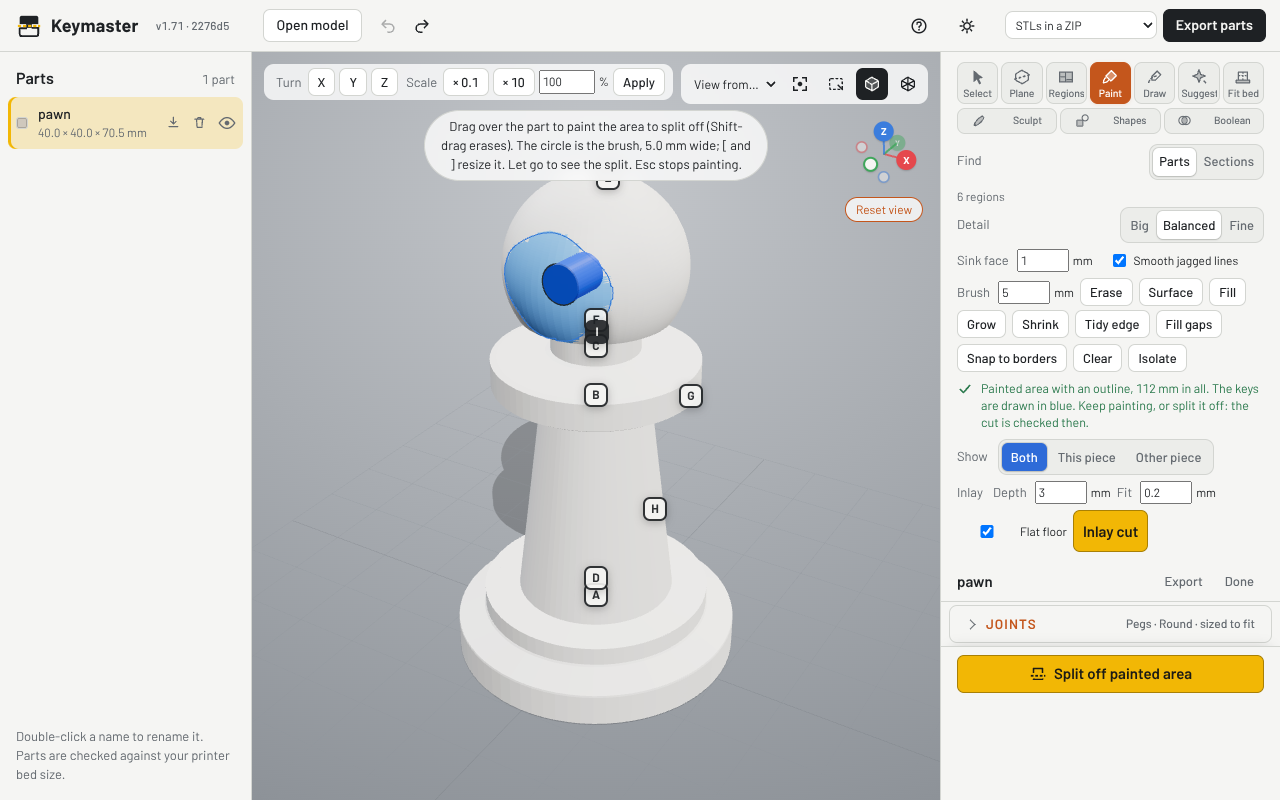
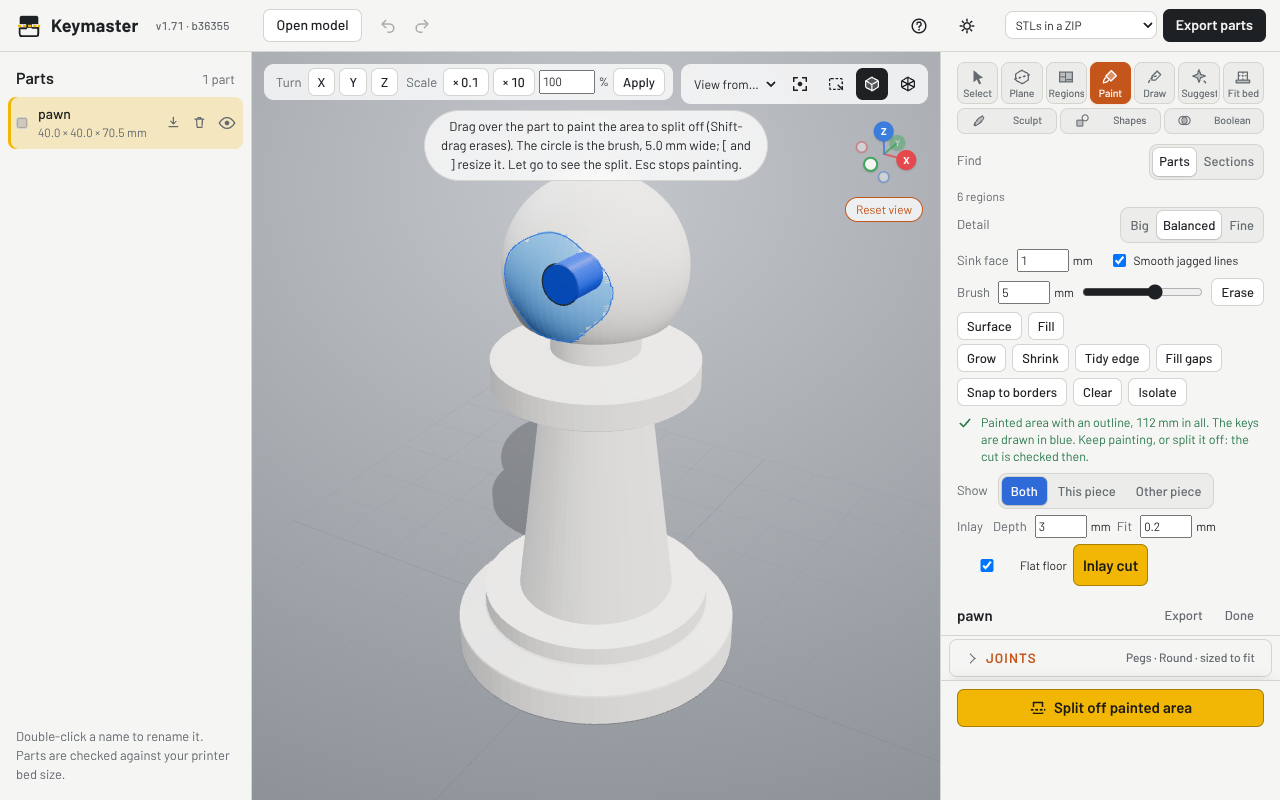
Brush size sliders for Paint and Sculpt (1.71)
Claude-Session: https://claude.ai/code/session_01AkZzWHpAyvH3fbyxphXaEn

diff --git a/index.html b/index.html
@@ -327,7 +327,8 @@ input[type=range] { width: 100%; accent-color: var(--ink); }
 .status.warn { color: var(--warn); }
 .btn-row { display: flex; gap: 6px; flex-wrap: wrap; margin-top: 4px; align-items: center; }
 .inline-num { display: inline-flex; align-items: center; gap: 4px; font-size: 12px; }
-.inline-check { display: inline-flex; align-items: center; gap: 5px; font-size: 12px; margin-left: 10px; color: var(--ink-2, inherit); }
+.brush-slider { flex: 1 1 90px; min-width: 80px; max-width: 160px; accent-color: var(--accent); }
+    .inline-check { display: inline-flex; align-items: center; gap: 5px; font-size: 12px; margin-left: 10px; color: var(--ink-2, inherit); }
 .inline-num input { width: 52px; }
 .paint-tools { margin-top: 4px; }
 .move-line { margin-top: 6px; }
@@ -559,7 +560,7 @@ select.sel { padding: 6px 8px; border: 1px solid var(--line); border-radius: 7px
         <path d="M2 14h24" stroke="#F2B705" stroke-width="2.4" stroke-dasharray="3.5 2"/>
       </svg>
       <span>Keymaster</span>
-      <span class="version" id="appVersion" title="Keymaster version 1.71, build 31208a. After an update, refresh the page and check this changes.">v1.71 · 31208a</span>
+      <span class="version" id="appVersion" title="Keymaster version 1.71, build b36355. After an update, refresh the page and check this changes.">v1.71 · b36355</span>
     </div>
     <div class="bar-mid">
       <button class="btn" id="openBtn" title="Open (Ctrl+O)">Open model</button>
@@ -663,7 +664,7 @@ select.sel { padding: 6px 8px; border: 1px solid var(--line); border-radius: 7px
     <div class="rp-row rp-fold" hidden><label class="slider" title="Where the surface folds inward more sharply than this, it is split into regions, like ZBrush polygroups"><span class="lbl">Split at folds over</span><input type="range" id="regionsAngle" min="5" max="45" step="5" value="15" aria-label="Split the surface where it folds inward more sharply than this"><output id="regionsAngleOut">15°</output></label></div>
     <div class="btn-row"><label class="inline-num" title="Push the cut face this far into the other piece, with a wall down from the line, so the piece keeps its thickness to the edge. 0 turns it off."><span class="lbl">Sink face</span><input type="number" id="sinkDepth" min="0" step="0.2" value="1" aria-label="Sink the cut face into the other piece by this much"><span class="unit">mm</span></label><label class="inline-check" title="Ease the cut line along the surface where it zigzags from triangle to triangle, so the cut edge comes out smooth. The pieces still meet exactly."><input type="checkbox" id="smoothCut" checked> Smooth jagged lines</label></div>
     <div id="paintTools" class="paint-tools" hidden>
-      <div class="btn-row"><label class="inline-num" title="Brush size"><span class="lbl">Brush</span><input type="number" id="brushSize" min="0.2" step="0.5" value="3" aria-label="Brush size in millimetres"><span class="unit">mm</span></label><button class="btn small" id="eraseBtn" aria-pressed="false" title="Erase paint instead of adding it (or hold Shift while painting)">Erase</button><button class="btn small" id="brushModeBtn" data-act="paint-mode" aria-pressed="false" title="Surface follows connected faces and stops at the edge of a layer; Sphere paints every face within reach, layers behind included">Surface</button><button class="btn small" id="fillBtn" data-act="paint-fill" aria-pressed="false" title="A click paints the whole surface region under the brush">Fill</button></div>
+      <div class="btn-row"><label class="inline-num" title="Brush size"><span class="lbl">Brush</span><input type="number" id="brushSize" min="0.2" step="0.5" value="3" aria-label="Brush size in millimetres"><span class="unit">mm</span></label><input type="range" id="brushSlider" class="brush-slider" min="0" max="100" step="1" value="40" aria-label="Brush size" title="Brush size: drag to change ([ and ] too)"><button class="btn small" id="eraseBtn" aria-pressed="false" title="Erase paint instead of adding it (or hold Shift while painting)">Erase</button><button class="btn small" id="brushModeBtn" data-act="paint-mode" aria-pressed="false" title="Surface follows connected faces and stops at the edge of a layer; Sphere paints every face within reach, layers behind included">Surface</button><button class="btn small" id="fillBtn" data-act="paint-fill" aria-pressed="false" title="A click paints the whole surface region under the brush">Fill</button></div>
       <div class="btn-row"><button class="btn small" data-act="paint-grow" title="Grow the painted area outward by one brush width">Grow</button><button class="btn small" data-act="paint-shrink" title="Shrink the painted area by one brush width">Shrink</button><button class="btn small" data-act="paint-tidy" title="Smooth the painted area's edge: drop thin tongues and fill notches">Tidy edge</button><button class="btn small" data-act="paint-fill-gaps" title="Fill the gaps in the paint: channels narrower than the brush between painted pieces, and every patch the paint surrounds">Fill gaps</button><button class="btn small" data-act="paint-snap" title="Snap the paint to the surface regions: a region at least half painted is painted whole, the rest cleared">Snap to borders</button><button class="btn small" data-act="paint-clear" title="Remove all paint">Clear</button><button class="btn small" id="isolateBtn" data-act="paint-isolate" aria-pressed="false" title="Hide everything but the painted area, so the rest of the model stays out of the way of the brush and clicks">Isolate</button></div>
     </div>
     <div id="cutLineInfo" class="cut-line-info"></div>
@@ -9736,6 +9737,12 @@ ${jointRows.length ? `<h2 style="font-size:17px">Joints</h2><table><thead><tr><t
   const brushBall = new THREE.Mesh(new THREE.SphereGeometry(1, 32, 20), new THREE.MeshBasicMaterial({ color: 0x2f6fe0, transparent: true, opacity: 0.18, depthWrite: false }));
   brushBall.renderOrder = 10; brushBall.visible = false; brushRing.add(brushBall);
   const brushSize = () => (state.tool === 'sculpt' ? state.sculpt.size : state.paint.size);
+  // The brush size slider runs on a log scale from 0.2 mm to two fifths of the part's size, so small and big
+  // brushes are both a short drag away
+  function sliderMax() { const p = selectedPart(); return Math.max(5, p ? K.diag(p.bbox) * 0.4 : 50); }
+  function sliderOf(size) { return Math.round(100 * Math.log(Math.max(0.2, size) / 0.2) / Math.log(sliderMax() / 0.2)); }
+  function sizeOfSlider(v) { return Math.round(0.2 * Math.pow(sliderMax() / 0.2, v / 100) * 10) / 10; }
+  function syncBrushSlider() { for (const [id, size] of [['#brushSlider', state.paint.size], ['#sculptSlider', state.sculpt.size]]) { const el = $(id); if (el) el.value = Math.max(0, Math.min(100, sliderOf(size))); } }
   function moveBrushRing(hit) {
     if (!hit || !(state.paint.on || state.tool === 'sculpt')) { if (brushRing.visible) { brushRing.visible = false; markDirty(); } return; }
     brushRing.position.copy(hit.point);
@@ -9849,7 +9856,7 @@ ${jointRows.length ? `<h2 style="font-size:17px">Joints</h2><table><thead><tr><t
     if (state.tool === 'sculpt') { setSculptSize(size); return; }
     state.paint.size = Math.max(0.2, Math.round(size * 10) / 10); state.paint.sized = true;
     const inp = $('#brushSize'); if (inp) inp.value = state.paint.size;
-    brushRing.scale.set(state.paint.size, state.paint.size, state.paint.size); updateHint(); markDirty();
+    brushRing.scale.set(state.paint.size, state.paint.size, state.paint.size); syncBrushSlider(); updateHint(); markDirty();
   }
   /* ---------------- sculpting ----------------
      modelsplitter's Sculpt tool: Smooth, Inflate and Flatten brushes dragged over the chosen part. A stroke works
@@ -9865,14 +9872,14 @@ ${jointRows.length ? `<h2 style="font-size:17px">Joints</h2><table><thead><tr><t
   function setSculptSize(size) {
     state.sculpt.size = Math.max(0.2, Math.round(size * 10) / 10); state.sculpt.sized = true;
     const inp = $('#sculptSize'); if (inp) inp.value = state.sculpt.size;
-    brushRing.scale.set(state.sculpt.size, state.sculpt.size, state.sculpt.size); updateHint(); markDirty();
+    brushRing.scale.set(state.sculpt.size, state.sculpt.size, state.sculpt.size); syncBrushSlider(); updateHint(); markDirty();
   }
   function sculptPanelHTML() {
     const p = selectedPart(), s = state.sculpt, mask = p && s.mask && s.mask.partId === p.id ? s.mask : null;
     const note = { smooth: 'Each vertex eases towards its neighbours: bumps and noise melt away.', inflate: 'The surface puffs out along itself. Hold Shift to push it in.', flatten: 'The surface is pressed towards a flat plane through the brush.' }[s.mode];
     return `<div class="sculpt-panel">
       <div class="inline"><span class="lbl">Brush</span>${seg('sculpt-mode', s.mode, [['smooth', 'Smooth'], ['inflate', 'Inflate'], ['flatten', 'Flatten']])}</div>
-      <div class="row2"><label class="inline-num" title="Brush size ([ and ] change it)"><span class="lbl">Size</span><input type="number" id="sculptSize" min="0.2" step="0.5" value="${s.size}" aria-label="Brush size in millimetres"><span class="unit">mm</span></label>
+      <div class="row2"><label class="inline-num" title="Brush size ([ and ] change it)"><span class="lbl">Size</span><input type="number" id="sculptSize" min="0.2" step="0.5" value="${s.size}" aria-label="Brush size in millimetres"><span class="unit">mm</span></label><input type="range" id="sculptSlider" class="brush-slider" min="0" max="100" step="1" value="${sliderOf(s.size)}" aria-label="Brush size" title="Brush size: drag to change ([ and ] too)">
         <label class="slider" title="How far each pass moves the surface"><span class="lbl">Strength</span><input type="range" id="sculptStrength" min="5" max="100" step="5" value="${Math.round(s.strength * 100)}" aria-label="Brush strength"><output id="sculptStrengthOut">${Math.round(s.strength * 100)}%</output></label></div>
       <p class="muted small">${note}</p>
       ${mask ? `<label class="check mask" title="The area painted with the Paint tool"><input type="checkbox" data-act-toggle="sculpt-mask" ${s.useMask ? 'checked' : ''}> Keep to the painted area (${fmtInt(mask.count)} faces)</label>` : ''}
@@ -10760,6 +10767,7 @@ ${jointRows.length ? `<h2 style="font-size:17px">Joints</h2><table><thead><tr><t
       setKeyOwn(f, f === 'turn' ? normTurn(v) : v);
       return;
     }
+    if (t.id === 'sculptSlider') { setSculptSize(sizeOfSlider(+t.value)); return; }
     if (t.id === 'sculptSize') { const v = parseFloat(t.value); if (isFinite(v)) setSculptSize(v); else renderInspector(); return; }
     if (t.id === 'sculptStrength') { state.sculpt.strength = Math.max(0.05, Math.min(1, parseFloat(t.value) / 100)); const o = $('#sculptStrengthOut'); if (o) o.textContent = `${Math.round(state.sculpt.strength * 100)}%`; return; }
     if (t.dataset.actToggle === 'sculpt-mask') { state.sculpt.useMask = t.checked; updateHint(); return; }
@@ -10849,6 +10857,7 @@ ${jointRows.length ? `<h2 style="font-size:17px">Joints</h2><table><thead><tr><t
   for (const el of [ins, planeBar]) {
     el.addEventListener('click', onPanelClick);
     el.addEventListener('change', onPanelChange);
+    el.addEventListener('input', (e) => { if (e.target.id === 'sculptSlider') setSculptSize(sizeOfSlider(+e.target.value)); }); // the slider sizes the brush while it is dragged
     el.addEventListener('input', onPanelInput);
   }
 
@@ -11646,7 +11655,8 @@ ${jointRows.length ? `<h2 style="font-size:17px">Joints</h2><table><thead><tr><t
   $('#seamSmooth').addEventListener('change', (e) => { smoothSeam(+e.target.value); });
   $('#seamSnap').addEventListener('change', (e) => { if (state.edit) state.edit.snap = e.target.checked; });
   $('#explode').addEventListener('input', (e) => { state.explode = parseFloat(e.target.value); $('#explodeOut').textContent = `${Math.round(state.explode * 100)}%`; applyExplode(); });
-  $('#brushSize').addEventListener('change', (e) => { state.paint.size = Math.max(0.2, +e.target.value || 3); e.target.value = state.paint.size; state.paint.sized = true; brushRing.scale.set(state.paint.size, state.paint.size, state.paint.size); markDirty(); });
+  $('#brushSize').addEventListener('change', (e) => { state.paint.size = Math.max(0.2, +e.target.value || 3); e.target.value = state.paint.size; state.paint.sized = true; brushRing.scale.set(state.paint.size, state.paint.size, state.paint.size); syncBrushSlider(); markDirty(); });
+  $('#brushSlider').addEventListener('input', (e) => { const tool = state.tool; if (tool === 'sculpt') return; setBrushSize(sizeOfSlider(+e.target.value)); });
   function applyRegions() {
     const on = state.regions.on;
     let count = 0;

diff --git a/src/app.js b/src/app.js
@@ -2460,6 +2460,12 @@
   const brushBall = new THREE.Mesh(new THREE.SphereGeometry(1, 32, 20), new THREE.MeshBasicMaterial({ color: 0x2f6fe0, transparent: true, opacity: 0.18, depthWrite: false }));
   brushBall.renderOrder = 10; brushBall.visible = false; brushRing.add(brushBall);
   const brushSize = () => (state.tool === 'sculpt' ? state.sculpt.size : state.paint.size);
+  // The brush size slider runs on a log scale from 0.2 mm to two fifths of the part's size, so small and big
+  // brushes are both a short drag away
+  function sliderMax() { const p = selectedPart(); return Math.max(5, p ? K.diag(p.bbox) * 0.4 : 50); }
+  function sliderOf(size) { return Math.round(100 * Math.log(Math.max(0.2, size) / 0.2) / Math.log(sliderMax() / 0.2)); }
+  function sizeOfSlider(v) { return Math.round(0.2 * Math.pow(sliderMax() / 0.2, v / 100) * 10) / 10; }
+  function syncBrushSlider() { for (const [id, size] of [['#brushSlider', state.paint.size], ['#sculptSlider', state.sculpt.size]]) { const el = $(id); if (el) el.value = Math.max(0, Math.min(100, sliderOf(size))); } }
   function moveBrushRing(hit) {
     if (!hit || !(state.paint.on || state.tool === 'sculpt')) { if (brushRing.visible) { brushRing.visible = false; markDirty(); } return; }
     brushRing.position.copy(hit.point);
@@ -2573,7 +2579,7 @@
     if (state.tool === 'sculpt') { setSculptSize(size); return; }
     state.paint.size = Math.max(0.2, Math.round(size * 10) / 10); state.paint.sized = true;
     const inp = $('#brushSize'); if (inp) inp.value = state.paint.size;
-    brushRing.scale.set(state.paint.size, state.paint.size, state.paint.size); updateHint(); markDirty();
+    brushRing.scale.set(state.paint.size, state.paint.size, state.paint.size); syncBrushSlider(); updateHint(); markDirty();
   }
   /* ---------------- sculpting ----------------
      modelsplitter's Sculpt tool: Smooth, Inflate and Flatten brushes dragged over the chosen part. A stroke works
@@ -2589,14 +2595,14 @@
   function setSculptSize(size) {
     state.sculpt.size = Math.max(0.2, Math.round(size * 10) / 10); state.sculpt.sized = true;
     const inp = $('#sculptSize'); if (inp) inp.value = state.sculpt.size;
-    brushRing.scale.set(state.sculpt.size, state.sculpt.size, state.sculpt.size); updateHint(); markDirty();
+    brushRing.scale.set(state.sculpt.size, state.sculpt.size, state.sculpt.size); syncBrushSlider(); updateHint(); markDirty();
   }
   function sculptPanelHTML() {
     const p = selectedPart(), s = state.sculpt, mask = p && s.mask && s.mask.partId === p.id ? s.mask : null;
     const note = { smooth: 'Each vertex eases towards its neighbours: bumps and noise melt away.', inflate: 'The surface puffs out along itself. Hold Shift to push it in.', flatten: 'The surface is pressed towards a flat plane through the brush.' }[s.mode];
     return `<div class="sculpt-panel">
       <div class="inline"><span class="lbl">Brush</span>${seg('sculpt-mode', s.mode, [['smooth', 'Smooth'], ['inflate', 'Inflate'], ['flatten', 'Flatten']])}</div>
-      <div class="row2"><label class="inline-num" title="Brush size ([ and ] change it)"><span class="lbl">Size</span><input type="number" id="sculptSize" min="0.2" step="0.5" value="${s.size}" aria-label="Brush size in millimetres"><span class="unit">mm</span></label>
+      <div class="row2"><label class="inline-num" title="Brush size ([ and ] change it)"><span class="lbl">Size</span><input type="number" id="sculptSize" min="0.2" step="0.5" value="${s.size}" aria-label="Brush size in millimetres"><span class="unit">mm</span></label><input type="range" id="sculptSlider" class="brush-slider" min="0" max="100" step="1" value="${sliderOf(s.size)}" aria-label="Brush size" title="Brush size: drag to change ([ and ] too)">
         <label class="slider" title="How far each pass moves the surface"><span class="lbl">Strength</span><input type="range" id="sculptStrength" min="5" max="100" step="5" value="${Math.round(s.strength * 100)}" aria-label="Brush strength"><output id="sculptStrengthOut">${Math.round(s.strength * 100)}%</output></label></div>
       <p class="muted small">${note}</p>
       ${mask ? `<label class="check mask" title="The area painted with the Paint tool"><input type="checkbox" data-act-toggle="sculpt-mask" ${s.useMask ? 'checked' : ''}> Keep to the painted area (${fmtInt(mask.count)} faces)</label>` : ''}
@@ -3484,6 +3490,7 @@
       setKeyOwn(f, f === 'turn' ? normTurn(v) : v);
       return;
     }
+    if (t.id === 'sculptSlider') { setSculptSize(sizeOfSlider(+t.value)); return; }
     if (t.id === 'sculptSize') { const v = parseFloat(t.value); if (isFinite(v)) setSculptSize(v); else renderInspector(); return; }
     if (t.id === 'sculptStrength') { state.sculpt.strength = Math.max(0.05, Math.min(1, parseFloat(t.value) / 100)); const o = $('#sculptStrengthOut'); if (o) o.textContent = `${Math.round(state.sculpt.strength * 100)}%`; return; }
     if (t.dataset.actToggle === 'sculpt-mask') { state.sculpt.useMask = t.checked; updateHint(); return; }
@@ -3573,6 +3580,7 @@
   for (const el of [ins, planeBar]) {
     el.addEventListener('click', onPanelClick);
     el.addEventListener('change', onPanelChange);
+    el.addEventListener('input', (e) => { if (e.target.id === 'sculptSlider') setSculptSize(sizeOfSlider(+e.target.value)); }); // the slider sizes the brush while it is dragged
     el.addEventListener('input', onPanelInput);
   }
 
@@ -4370,7 +4378,8 @@
   $('#seamSmooth').addEventListener('change', (e) => { smoothSeam(+e.target.value); });
   $('#seamSnap').addEventListener('change', (e) => { if (state.edit) state.edit.snap = e.target.checked; });
   $('#explode').addEventListener('input', (e) => { state.explode = parseFloat(e.target.value); $('#explodeOut').textContent = `${Math.round(state.explode * 100)}%`; applyExplode(); });
-  $('#brushSize').addEventListener('change', (e) => { state.paint.size = Math.max(0.2, +e.target.value || 3); e.target.value = state.paint.size; state.paint.sized = true; brushRing.scale.set(state.paint.size, state.paint.size, state.paint.size); markDirty(); });
+  $('#brushSize').addEventListener('change', (e) => { state.paint.size = Math.max(0.2, +e.target.value || 3); e.target.value = state.paint.size; state.paint.sized = true; brushRing.scale.set(state.paint.size, state.paint.size, state.paint.size); syncBrushSlider(); markDirty(); });
+  $('#brushSlider').addEventListener('input', (e) => { const tool = state.tool; if (tool === 'sculpt') return; setBrushSize(sizeOfSlider(+e.target.value)); });
   function applyRegions() {
     const on = state.regions.on;
     let count = 0;

diff --git a/src/template.html b/src/template.html
@@ -327,7 +327,8 @@ input[type=range] { width: 100%; accent-color: var(--ink); }
 .status.warn { color: var(--warn); }
 .btn-row { display: flex; gap: 6px; flex-wrap: wrap; margin-top: 4px; align-items: center; }
 .inline-num { display: inline-flex; align-items: center; gap: 4px; font-size: 12px; }
-.inline-check { display: inline-flex; align-items: center; gap: 5px; font-size: 12px; margin-left: 10px; color: var(--ink-2, inherit); }
+.brush-slider { flex: 1 1 90px; min-width: 80px; max-width: 160px; accent-color: var(--accent); }
+    .inline-check { display: inline-flex; align-items: center; gap: 5px; font-size: 12px; margin-left: 10px; color: var(--ink-2, inherit); }
 .inline-num input { width: 52px; }
 .paint-tools { margin-top: 4px; }
 .move-line { margin-top: 6px; }
@@ -663,7 +664,7 @@ select.sel { padding: 6px 8px; border: 1px solid var(--line); border-radius: 7px
     <div class="rp-row rp-fold" hidden><label class="slider" title="Where the surface folds inward more sharply than this, it is split into regions, like ZBrush polygroups"><span class="lbl">Split at folds over</span><input type="range" id="regionsAngle" min="5" max="45" step="5" value="15" aria-label="Split the surface where it folds inward more sharply than this"><output id="regionsAngleOut">15°</output></label></div>
     <div class="btn-row"><label class="inline-num" title="Push the cut face this far into the other piece, with a wall down from the line, so the piece keeps its thickness to the edge. 0 turns it off."><span class="lbl">Sink face</span><input type="number" id="sinkDepth" min="0" step="0.2" value="1" aria-label="Sink the cut face into the other piece by this much"><span class="unit">mm</span></label><label class="inline-check" title="Ease the cut line along the surface where it zigzags from triangle to triangle, so the cut edge comes out smooth. The pieces still meet exactly."><input type="checkbox" id="smoothCut" checked> Smooth jagged lines</label></div>
     <div id="paintTools" class="paint-tools" hidden>
-      <div class="btn-row"><label class="inline-num" title="Brush size"><span class="lbl">Brush</span><input type="number" id="brushSize" min="0.2" step="0.5" value="3" aria-label="Brush size in millimetres"><span class="unit">mm</span></label><button class="btn small" id="eraseBtn" aria-pressed="false" title="Erase paint instead of adding it (or hold Shift while painting)">Erase</button><button class="btn small" id="brushModeBtn" data-act="paint-mode" aria-pressed="false" title="Surface follows connected faces and stops at the edge of a layer; Sphere paints every face within reach, layers behind included">Surface</button><button class="btn small" id="fillBtn" data-act="paint-fill" aria-pressed="false" title="A click paints the whole surface region under the brush">Fill</button></div>
+      <div class="btn-row"><label class="inline-num" title="Brush size"><span class="lbl">Brush</span><input type="number" id="brushSize" min="0.2" step="0.5" value="3" aria-label="Brush size in millimetres"><span class="unit">mm</span></label><input type="range" id="brushSlider" class="brush-slider" min="0" max="100" step="1" value="40" aria-label="Brush size" title="Brush size: drag to change ([ and ] too)"><button class="btn small" id="eraseBtn" aria-pressed="false" title="Erase paint instead of adding it (or hold Shift while painting)">Erase</button><button class="btn small" id="brushModeBtn" data-act="paint-mode" aria-pressed="false" title="Surface follows connected faces and stops at the edge of a layer; Sphere paints every face within reach, layers behind included">Surface</button><button class="btn small" id="fillBtn" data-act="paint-fill" aria-pressed="false" title="A click paints the whole surface region under the brush">Fill</button></div>
       <div class="btn-row"><button class="btn small" data-act="paint-grow" title="Grow the painted area outward by one brush width">Grow</button><button class="btn small" data-act="paint-shrink" title="Shrink the painted area by one brush width">Shrink</button><button class="btn small" data-act="paint-tidy" title="Smooth the painted area's edge: drop thin tongues and fill notches">Tidy edge</button><button class="btn small" data-act="paint-fill-gaps" title="Fill the gaps in the paint: channels narrower than the brush between painted pieces, and every patch the paint surrounds">Fill gaps</button><button class="btn small" data-act="paint-snap" title="Snap the paint to the surface regions: a region at least half painted is painted whole, the rest cleared">Snap to borders</button><button class="btn small" data-act="paint-clear" title="Remove all paint">Clear</button><button class="btn small" id="isolateBtn" data-act="paint-isolate" aria-pressed="false" title="Hide everything but the painted area, so the rest of the model stays out of the way of the brush and clicks">Isolate</button></div>
     </div>
     <div id="cutLineInfo" class="cut-line-info"></div>

diff --git a/tests/ui_test.py b/tests/ui_test.py
@@ -999,6 +999,10 @@ with sync_playwright() as p:
     pg.wait_for_function("KeymasterDebug.pickInfo() && KeymasterDebug.pickInfo().frames > 0", timeout=15000); pg.wait_for_timeout(200)
     surf = pg.evaluate(f"KeymasterDebug.hoverBrushAt(0, {top})")
     pg.evaluate("KeymasterDebug.paintMode('sphere')"); sph = pg.evaluate(f"KeymasterDebug.hoverBrushAt(0, {top})"); pg.evaluate("KeymasterDebug.paintMode('surface')")
+    pg.evaluate("() => { const r = document.querySelector('#brushSlider'); r.value = 80; r.dispatchEvent(new Event('input', {bubbles:true})); }"); big = float(pg.input_value('#brushSize'))
+    pg.evaluate("() => { const r = document.querySelector('#brushSlider'); r.value = 20; r.dispatchEvent(new Event('input', {bubbles:true})); }"); small = float(pg.input_value('#brushSize'))
+    check('the brush size slider sizes the brush, its box following', pg.is_visible('#brushSlider') and big > 3 * small > 0, (big, small))
+    pg.fill('#brushSize', '4'); pg.press('#brushSize', 'Tab'); pg.wait_for_timeout(100)
     check('the Surface brush shows as a ring on the face, the Sphere brush as a see-through ball', surf == {'ring': True, 'ball': False} and sph == {'ring': True, 'ball': True}, (surf, sph))
     pi = pg.evaluate("KeymasterDebug.pickInfo()")
     check('while painting, the keys are planned on the painted outline and drawn (or the panel says why not)', pi['preview'] and pi['frames'] == 1 and (pi['markers'] > 0) == (pi['joints'] > 0) and (pi['joints'] > 0 or 'No room' in pg.inner_text('#cutLineInfo') or 'no plug' in pg.inner_text('#cutLineInfo').lower()), (pi, pg.inner_text('#cutLineInfo')[:200]))

diff --git a/README.md b/README.md
@@ -34,7 +34,7 @@
 - **Live cut preview.** Drag the arrow to slide the cut, and the blue rings or the plane itself to tilt it (Shift for 5° steps or fine control). The toolbar under the view takes an exact position and X, Y and Z angles. Everything fits on one screen, with no scrolling. The cut face appears as a hatched section while you drag, even on dense sculpts.
 - **Cut as many times as you need.** Every piece lands in the parts list and can be cut again. Undo and redo cover every step.
 - **Keys that fit.** Choose pegs (tapered by any amount, right down to a point, with a hole that matches or stays straight), dowel holes with printable pins, or magnet pockets. Keys come in seven shapes: round, square, hexagon, cross, oval, slot, and a D-shape that only fits one way round. Shaped keys line up with each area's long side, and the fit gap is even all the way round. Keys are placed automatically, and you can click the cut face to add one, drag to move it, or right-click to remove it.
-- **Brush modes.** Surface follows connected faces; Sphere reaches layers behind, for clothing over a body, and shows as a see-through ball so you can see what it covers; Fill paints a whole region with a click; Snap to borders lands a rough stroke on the regions' edges; [ and ] size the brush.
+- **Brush modes.** Surface follows connected faces; Sphere reaches layers behind, for clothing over a body, and shows as a see-through ball so you can see what it covers; a slider beside the brush box sizes it; Fill paints a whole region with a click; Snap to borders lands a rough stroke on the regions' edges; [ and ] size the brush.
 - **Isolate.** Paint the area you want to work in and press Isolate: the rest of the model leaves the screen and stops catching the brush and clicks, so you can paint a cut on a layered sculpt without touching what's behind it.
 - **Projects and export.** Save a project with every part, its joints and your settings, and open it later to carry on. Export the parts as STLs in a ZIP, as one 3MF, or as STLs with an assembly sheet that shows a picture of each piece, the pieces spread apart, and which pieces each joint pairs.
 - **Reduce detail.** A dense sculpt can be lightened to a fraction of its triangles while the surface stays within 0.02 mm, so it paints and cuts faster. One undo step puts the detail back.

diff --git a/CLAUDE.md b/CLAUDE.md
@@ -200,6 +200,7 @@ From the owner's Aysil arm ("must be smoother and not jagged or have fine, tiny 
 - **Holes fill themselves**: letting go of the brush fills every unpainted patch the paint closes round (`fillSelectionGaps` with `gap: 0`), and clicked regions that close round other regions take them in (`enclosedRegions`).
 - **Keys while painting**: `previewPainted` runs `planJoints` in the worker and draws the keys or plug on the painted outline; the cut still waits for Split off painted area.
 - **The Sphere brush shows as a ball**: `brushBall`, a see-through sphere of the brush's size, a child of `brushRing`, visible while painting in Sphere mode; Surface keeps the ring.
+- **Brush size sliders** (`#brushSlider` beside Brush, `#sculptSlider` beside Size): a log scale from 0.2 mm to two fifths of the part's size (`sliderOf`, `sizeOfSlider`), live while dragged, kept in step with the box and [ ] (`syncBrushSlider`).
 - **Show: Both | This piece | Other piece** under every pick (`state.pickShow`, `applyPickShow`): the hidden side's triangles leave the view's index, as Isolate does.
 
 ## Box select
